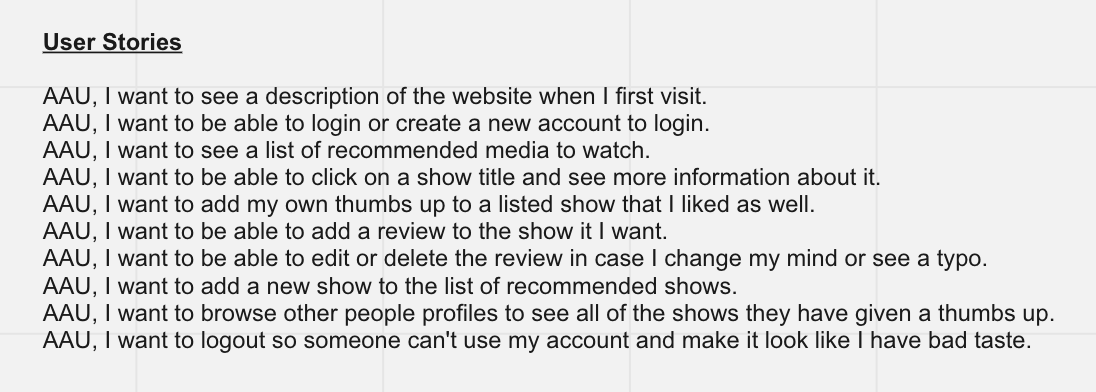
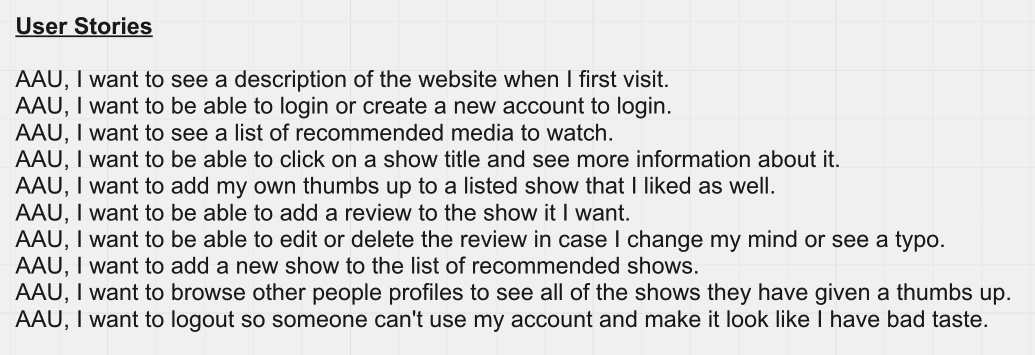
fixed user stories in README to fit in with other planning docs.

Changed region(s): [[0.0, 0.1859, 0.9894, 0.9296], [0.0, 0.031, 0.1855, 0.1549]]

diff --git a/README.md b/README.md
@@ -41,16 +41,7 @@ Years ago I created a spreadsheet for my extended family to be able to share tv 
 [Wireframes]  
 
 ## User Stories
-AAU, I want to see a description of the website when I first visit.
-AAU, I want to be able to login or create a new account to login.
-AAU, I want to see a list of recommended media to watch.
-AAU, I want to be able to click on a show title and see more information about it.
-AAU, I want to add my own thumbs up to a listed show that I liked as well.
-AAU, I want to be able to add a review to the show it I want.
-AAU, I want to be able to edit or delete the review in case I change my mind or see a typo.
-AAU, I want to add a new show to the list of recommended shows.
-AAU, I want to browse other people profiles to see all of the shows they have given a thumbs up.
-AAU, I want to logout so someone can't use my account and make it look like I have bad taste.
+![User Stories](Planning/user_stories.png "User Stories")
 
 ## ERD
 ![ERD](Planning/ERD.png "ERD")
